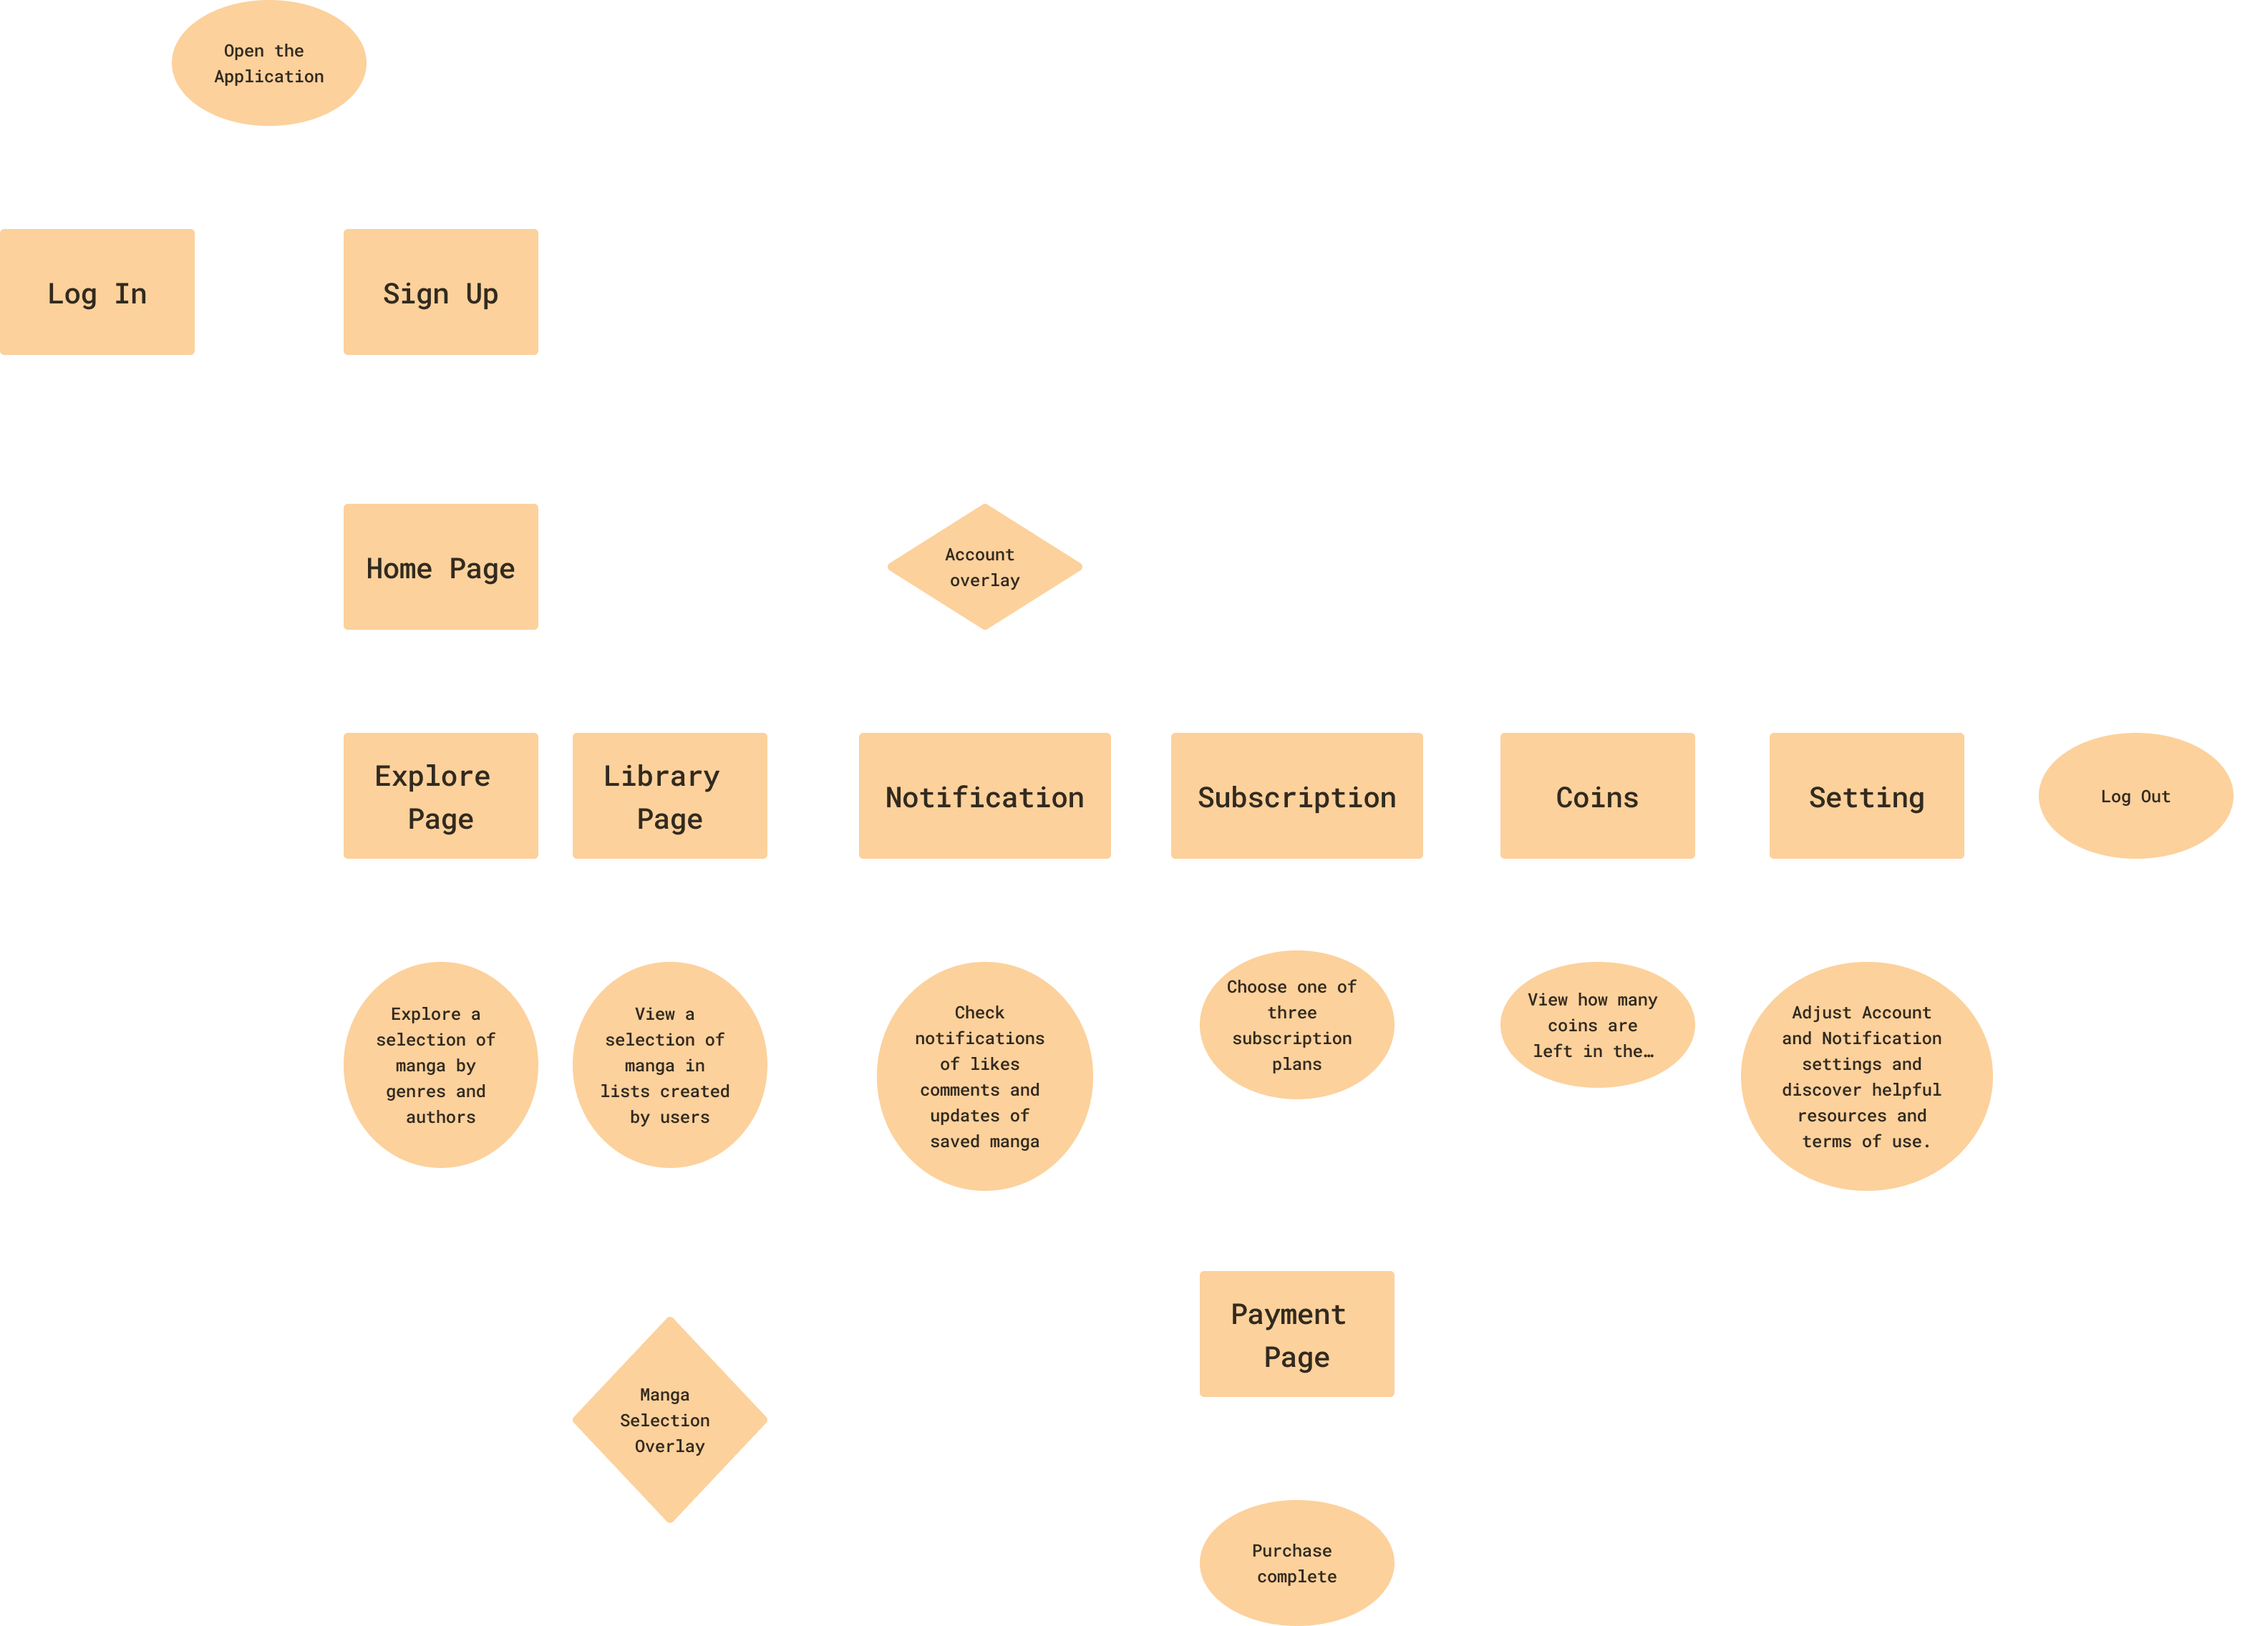
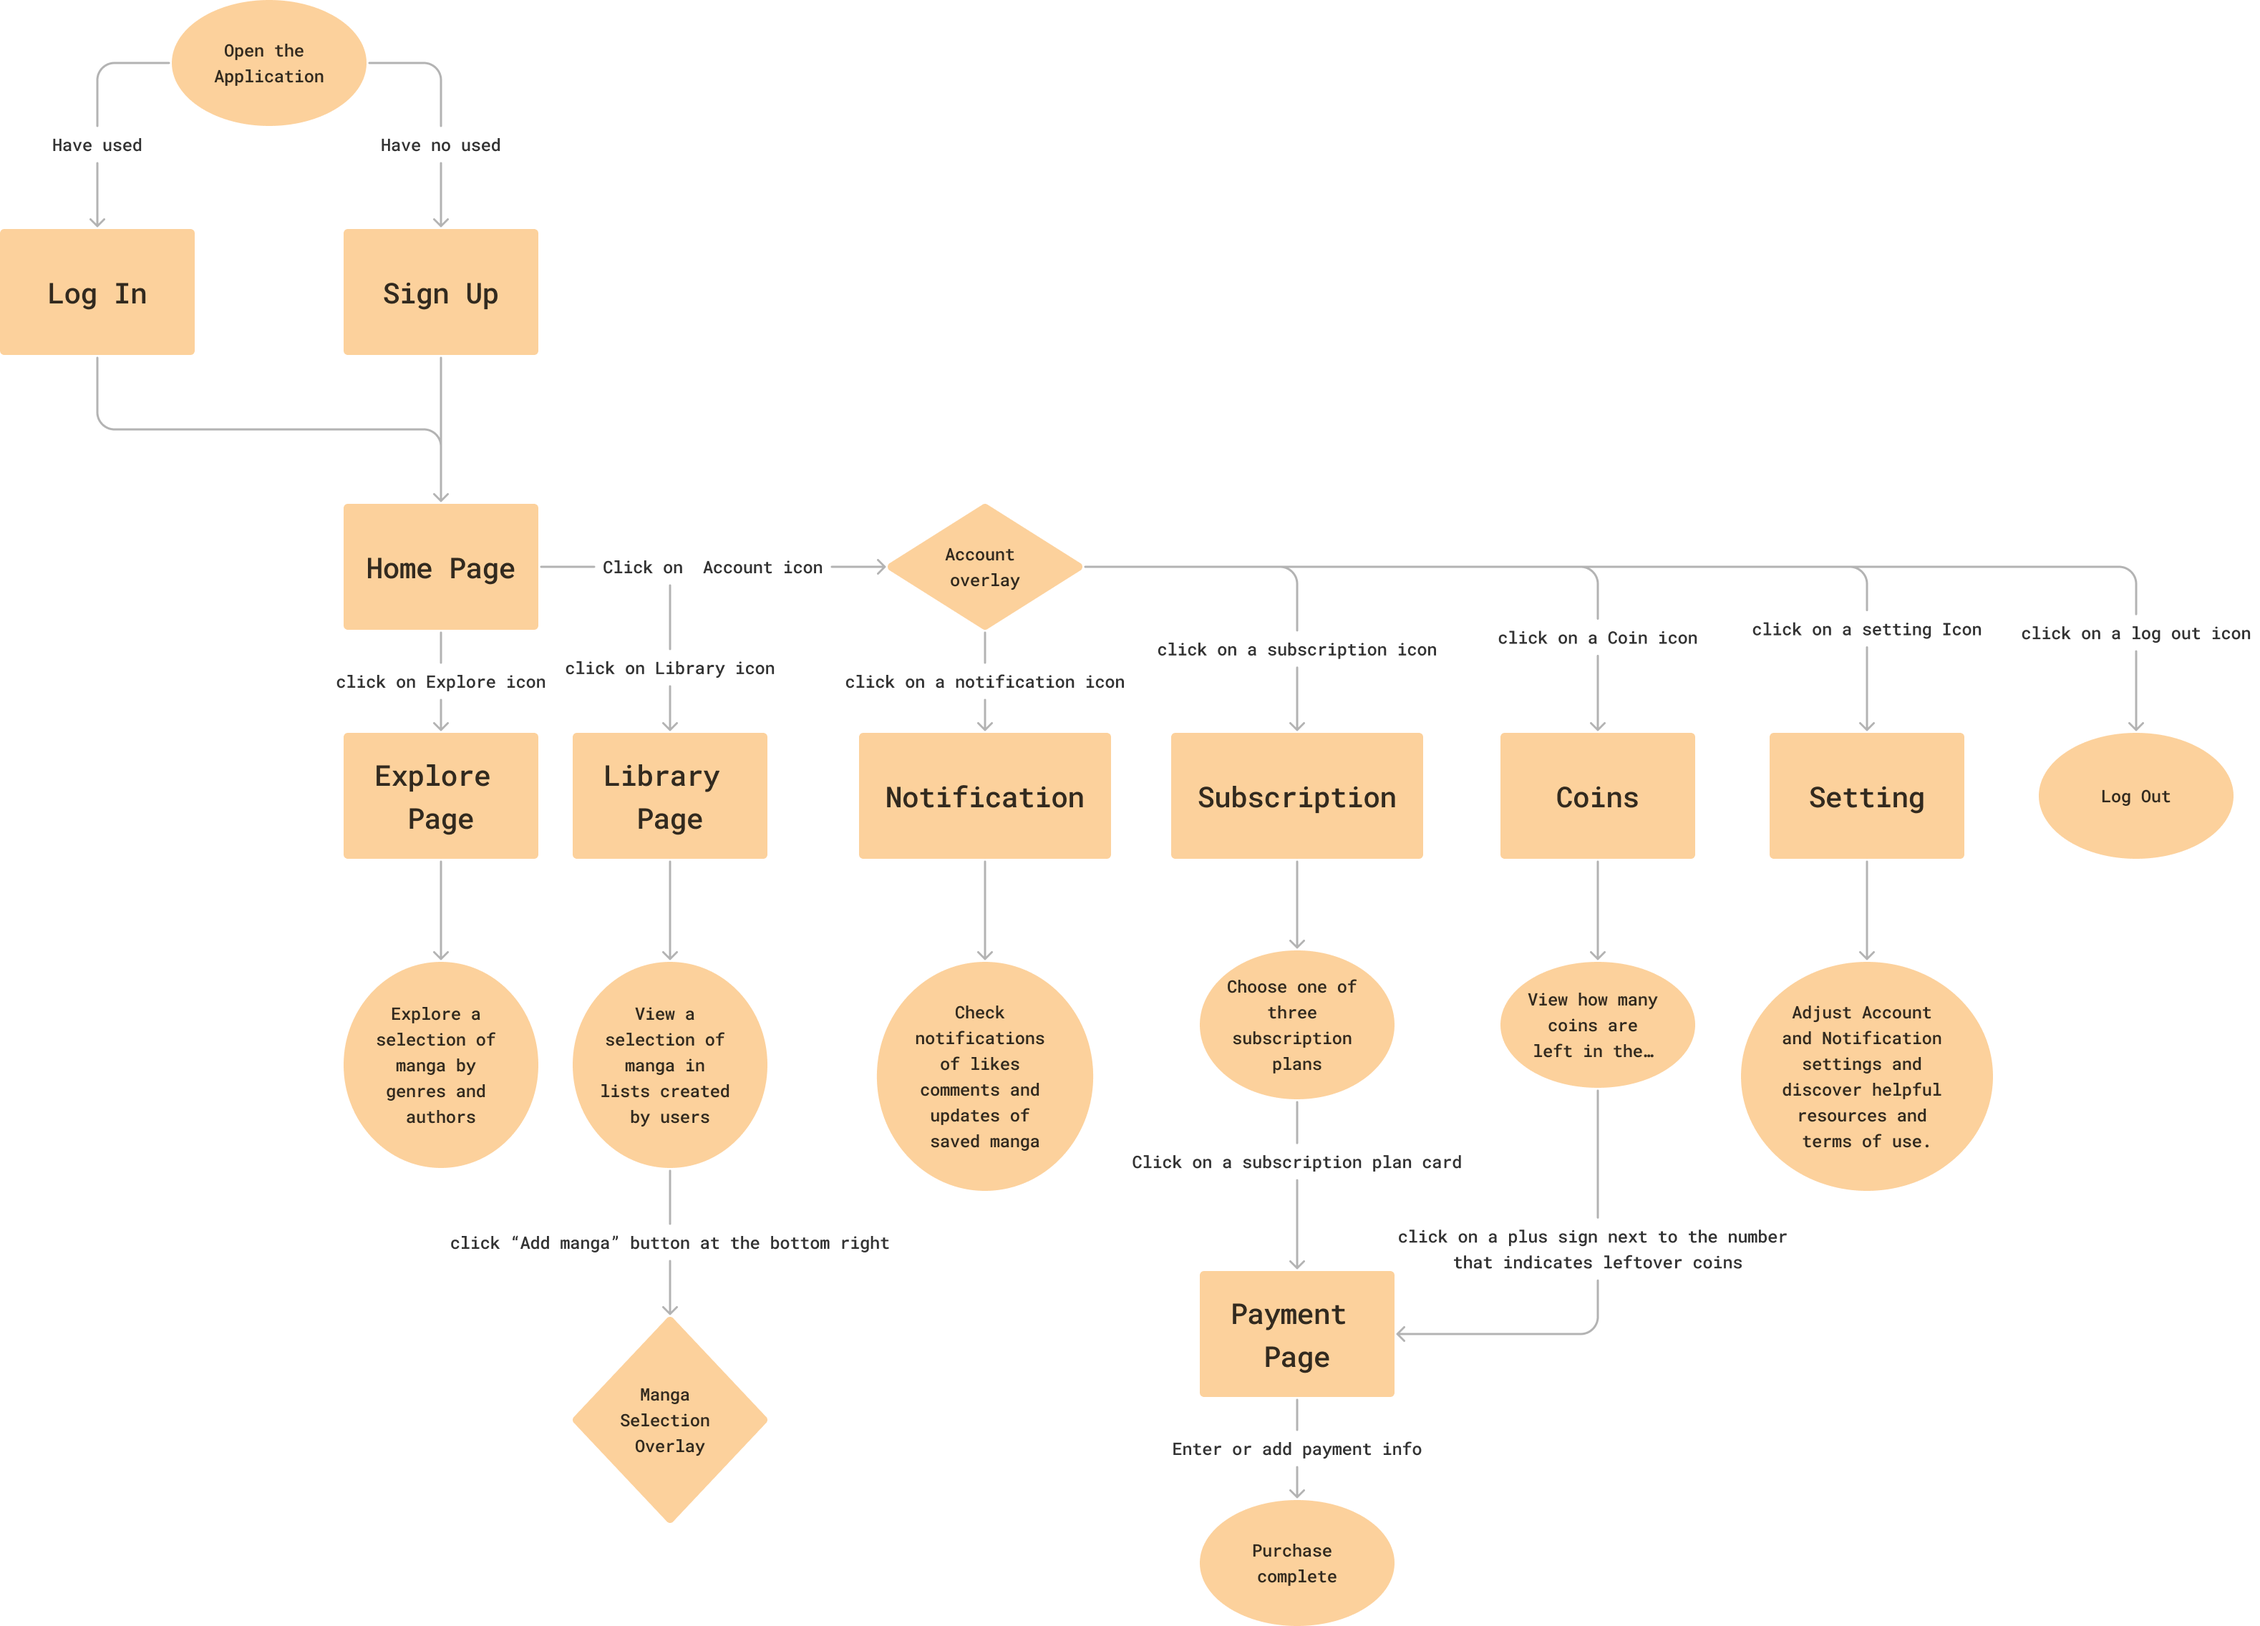
Added assets to the SNIIP Page

diff --git a/SNIIP.html b/SNIIP.html
@@ -88,7 +88,7 @@
                                 The product makes mangas accessible to readers over the world by implementing a stable platform with faster updates of translated versions to provide a larger audience to authors and a pleasant reading experience for users. 
                                 </h4>
                             </div>
-                            <video   width="500px" autoplay>
+                            <video width="500px" autoplay>
                                 <source src="/videos/SNIIP/Screen Recording 2023-07-24 at 7.00.59 PM.mov">
                             </video>
                         </div>
@@ -190,12 +190,20 @@
                 <div class="Body-Contents">
                     <div class="Synthesizing">
                         <h3 class="orange">Synthesizing 1)</h3>
-                        <h2>Personas</h2>
+                        <h2>Stakeholder Mapping</h2>
+                        <h4 class="fade">
+                            For the synthesizing process, we have decided to identify our primary, secondary, and tertiary users of the product. Our primary users included, 
+                            readers who want a personalized reading experience and the users in western countries who want to understand more mangas.
+                        </h4>
                         <img src="/Images/SNIIP/StakeholderMap.png" alt="StakeholderMap">
                         <h3 class="orange">Synthesizing 2)</h3>
                         <h2>Personas</h2>
-                        <img src="/Images/SNIIP/Persona1.png" alt="Persona1">
-                        <img src="/Images/SNIIP/Persona2.png" alt="Persona2">
+                        <h4 class="fade">
+                            We have come up with two personas whic included: a manga publisher/artist, and an manga enthusiast. We decied the personas to be two types of customers of our product which were authors and readers. 
+                            During the design process, this persona construction helped to remind ourselves that the product not only aims to attract readers, but also authors and small creators 
+                            who want more exposure of their products to the public.
+                        </h4>
+                        <img src="/Images/SNIIP/Persona.png" alt="Persona">
                     </div>
                 </div>
                 <div class="Body-Contents">
@@ -210,7 +218,56 @@
                     </div>
                 </div>
                 <div class="Body-Contents">
-                    <div class=""></div>
+                    <div class="Architecture">
+                        <h3 class="orange">Architecture</h3>
+                        <h2>Functionalities</h2>
+                        <h4 class="fade">
+                            With these decisions in mind, we have decided to layout couple functionalities before jumping into designs. My team used a google sheet 
+                            to layout functionalities for each page with rough description and ideas for their UI compoenents and navigation methods. We have also planned out the animation descriptions
+                            intuitively so that each member of the team could focus on the sections of the product he or she is designated with. Despite having a general requirement documented before jumping into prototyping,
+                            it was important that we allowed <strong>a lot of rooms for changes and intuitive work process</strong> rather than a systematic task oritented prototyping. 
+                        </h4>
+                        <img src="/Images/SNIIP/UX Requirements.png" alt="Requirements">
+                        <h2>User Flow</h2>
+                        <h4 class="fade">
+                            On top of the functionality specifications, the team deicded to build a User flow map with guidance as to which icon leads to which page with various navigation methods such as, on click, on drag, and etc.
+                            This allowed us to keep in mind how we would connect the flows between the pages we create so that we can build a working prototype when we finish high fidelity prototypes. 
+                        </h4>
+                        <h4 class="fade"></h4>
+                        <img src="/Images/SNIIP/UserFlow.png" alt="UserFlow">
+                        <h2>Information Architecture</h2>
+                        <h4 class="fade">
+                            The team begun building a information architecture for our mobile product so that we could recollect in case we forget what decisions we have made in the process of brainstorming and 
+                            affinity diagraming.
+                        </h4>
+                        <img src="/Images/SNIIP/Information Architecture.png" alt="Information Architecture">
+                    </div>
+                </div>
+                <div class="Body-Contents">
+                    <div class="Wireframing">
+                        <h3 class="orange">Rapid Prototyping</h3>
+                        <h2>Low-Fidelity Prototype: Sketches</h2>
+                        <h4>
+                            For the intital staging of prototypes, we have decided to each come up with sketches for the entire product. After creating multiple prototypes, we have decided to either <strong>take strongest sketches from each member</strong>
+                            or <strong>take the strognest assets from each one's sketches and merge them together to come up with a better prototype.</strong>
+                        </h4>
+                        <img src="/Images/SNIIP/PrototypeSketches.png" alt="PrototypeSketches">
+                        <h3 class="orange">Combination</h3>
+                        <h2>Low-Fidelity Prototype: Combination</h2>
+                        <h3 class="orange"></h3>
+                        <img src="/Images/SNIIP/LowFidelity.png" alt="Low-FidelityPrtotype">
+                    </div>
+                </div>
+                <div class="Body-Contents">
+                    <div class="UserTest">
+                        <h2>User Test #1</h2>
+                        <h3 class="orange">Low Fidelity Prototype User Test</h3>
+                        <img src="/Images/SNIIP/LowFiUserTest.png" alt="Low-Fidelity Prototype">
+                        <h2>User Test #2</h2>
+                        <h3 class="orange">Mid Fidelity Prototype User Test</h3>
+                        <img src="/Images/SNIIP/MidFiUserTest.png" alt="Mid-Fidelity Prtotoype">
+
+                    </div>
                 </div>
             </section>
         </main>

diff --git a/css/Websitecss.css b/css/Websitecss.css
@@ -714,8 +714,6 @@ body {
   width: 60%;
   padding-left: 40px;
 }
-
-
 /* Style tags for SNIIP */
 #Surveys {
   display: flex;
@@ -724,4 +722,10 @@ body {
 }
 #Surveys img {
   width:50%
+}
+.Architecture img{
+  width: 100%;
+}
+.UserTest img{
+  width: 100%;
 }
